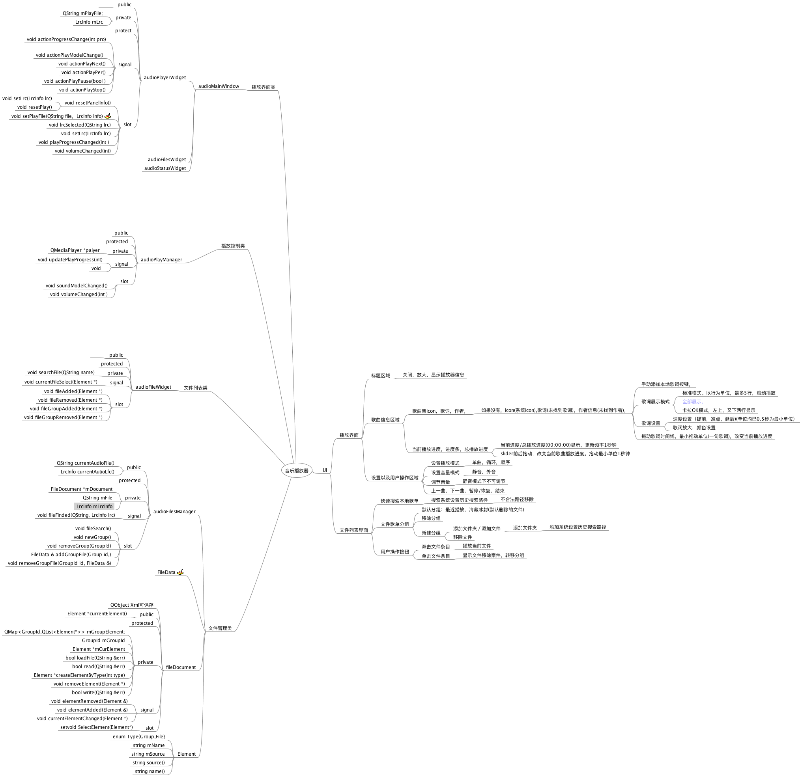
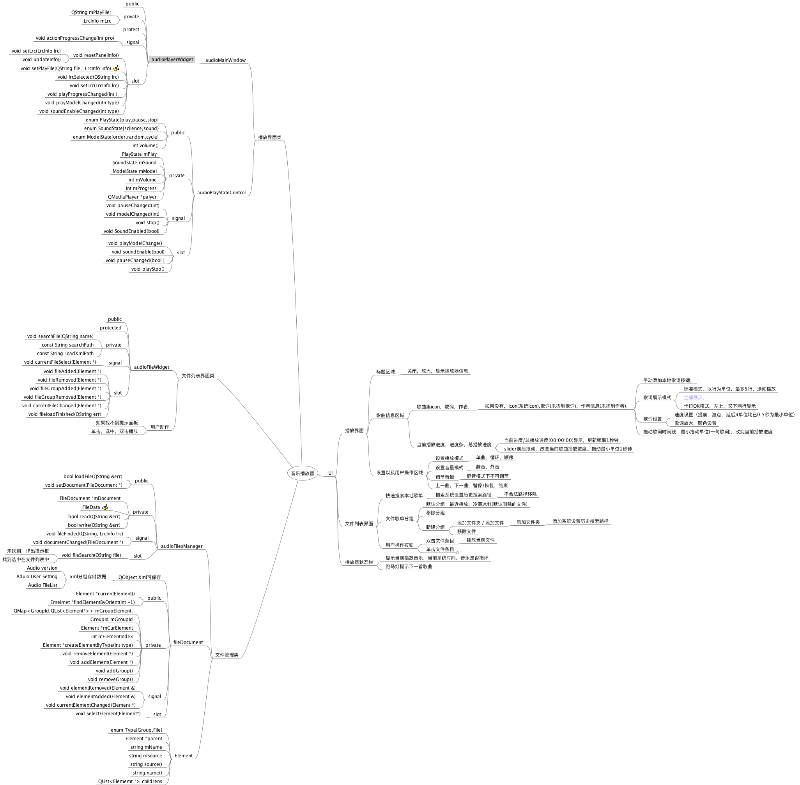
"statusBar widget added"

diff --git a/音乐播放器.mm b/音乐播放器.mm
@@ -1,4 +1,4 @@
-<map version="1.0.1">
+<map version="1.1.0">
 <!-- To view this file, download free mind mapping software FreeMind from http://freemind.sourceforge.net -->
 <node CREATED="1500028951288" ID="ID_69096844" MODIFIED="1500028960820" TEXT="&#x97f3;&#x4e50;&#x64ad;&#x653e;&#x5668;">
 <node CREATED="1500030258110" ID="ID_1756486732" MODIFIED="1500030262273" POSITION="right" TEXT="UI">
@@ -68,7 +68,8 @@
 </node>
 </node>
 <node CREATED="1502016503336" ID="ID_1374396637" MODIFIED="1502016521685" TEXT="&#x64ad;&#x653e;&#x5668;&#x72b6;&#x6001;&#x680f;">
-<node CREATED="1502016522809" ID="ID_360689341" MODIFIED="1502016591518" TEXT="&#x663e;&#x793a;&#x5f53;&#x524d;&#x64ad;&#x653e;&#x97f3;&#x4e50;&#xff0c;&#x5f53;&#x524d;&#x7cfb;&#x7edf;&#x65f6;&#x95f4;&#xff0c;&#x97f3;&#x4e50;&#x662f;&#x5426;&#x635f;&#x574f;&#xff0c;&#x8dd1;&#x9a6c;&#x706f;&#x63d0;&#x793a;&#x4e0b;&#x4e00;&#x9996;&#x6b4c;&#x66f2;"/>
+<node CREATED="1502016522809" ID="ID_360689341" MODIFIED="1502438247599" TEXT="&#x663e;&#x793a;&#x5f53;&#x524d;&#x64ad;&#x653e;&#x97f3;&#x4e50;&#xff0c;&#x5f53;&#x524d;&#x7cfb;&#x7edf;&#x65f6;&#x95f4;&#xff0c;&#x97f3;&#x4e50;&#x662f;&#x5426;&#x635f;&#x574f;"/>
+<node CREATED="1502438249100" ID="ID_1838637314" MODIFIED="1502438250389" TEXT="&#x8dd1;&#x9a6c;&#x706f;&#x63d0;&#x793a;&#x4e0b;&#x4e00;&#x9996;&#x6b4c;&#x66f2;"/>
 </node>
 </node>
 <node CREATED="1501056551206" HGAP="9" ID="ID_518259958" MODIFIED="1501236397045" POSITION="left" TEXT="&#x64ad;&#x653e;&#x754c;&#x9762;&#x7c7b;" VSHIFT="-107">
@@ -128,8 +129,6 @@
 <node CREATED="1501314597641" ID="ID_1788629860" MODIFIED="1501316174343" TEXT="void soundEnableChanged(int type)"/>
 </node>
 </node>
-<node CREATED="1501056691927" ID="ID_1629958325" MODIFIED="1501056710023" TEXT="audioFilesWidget"/>
-<node CREATED="1501056720375" ID="ID_373220747" MODIFIED="1501056729733" TEXT="audioStatusWIdget"/>
 </node>
 <node CREATED="1501314768153" ID="ID_775027130" MODIFIED="1501315203551" TEXT="audioPlayStateControl">
 <node CREATED="1501314900098" ID="ID_1281237740" MODIFIED="1501314905199" TEXT="public">
@@ -166,6 +165,8 @@
 <node CREATED="1501236429398" ID="ID_343528161" MODIFIED="1501236433006" TEXT="protected"/>
 <node CREATED="1501236438186" ID="ID_1491830705" MODIFIED="1501319723953" TEXT="private">
 <node CREATED="1501236522596" ID="ID_151168755" MODIFIED="1501236535456" TEXT="void searchFile(QString name)"/>
+<node CREATED="1502433804046" ID="ID_1007501485" MODIFIED="1502433822671" TEXT="const String searchPath"/>
+<node CREATED="1502433823001" ID="ID_1024543729" MODIFIED="1502433840067" TEXT="const String LoadXmlPath"/>
 </node>
 <node CREATED="1501236442662" ID="ID_545477994" MODIFIED="1501236447170" TEXT="signal">
 <node CREATED="1501240480797" ID="ID_102213320" MODIFIED="1501240516773" TEXT="void currentFileSelect(Element *)"/>
@@ -177,18 +178,22 @@
 <node CREATED="1501240432287" ID="ID_872307991" MODIFIED="1501240448013" TEXT="void fileGroupRemoved(Element *)"/>
 <node CREATED="1501313749549" ID="ID_460563974" MODIFIED="1501313783535" TEXT="void currentFileChanged(Element *)"/>
 <node CREATED="1502014539305" ID="ID_1662527256" MODIFIED="1502014638150" TEXT="void fileloadFinished(QString err)"/>
-<node CREATED="1502014703705" ID="ID_1258140656" MODIFIED="1502014724133" TEXT="void reloadFile()"/>
 </node>
+</node>
+<node CREATED="1502433703840" ID="ID_323659511" MODIFIED="1502433714754" TEXT="&#x7528;&#x6237;&#x52a8;&#x4f5c;">
+<node CREATED="1502016332801" ID="ID_1222496941" MODIFIED="1502016354341" TEXT="&#x5982;&#x679c;&#x627e;&#x4e0d;&#x5230;&#x63d0;&#x793a;&#x9762;&#x677f;"/>
+<node CREATED="1502016300520" ID="ID_445391940" MODIFIED="1502016320885" TEXT="&#x5355;&#x51fb;&#xff0c;&#x9009;&#x4e2d;&#xff0c;&#x53cc;&#x51fb;&#x64ad;&#x653e;"/>
 </node>
 </node>
 <node CREATED="1501056913072" HGAP="119" ID="ID_558687772" MODIFIED="1501236411821" POSITION="left" TEXT="&#x6587;&#x4ef6;&#x7ba1;&#x7406;&#x7c7b;" VSHIFT="-37">
 <node CREATED="1501234412102" ID="ID_762363575" MODIFIED="1501234421460" TEXT="audioFilesManager">
-<node CREATED="1501234423655" ID="ID_1073156878" MODIFIED="1501234430302" TEXT="public">
+<node CREATED="1501234423655" ID="ID_1073156878" MODIFIED="1502433613769" TEXT="public" VSHIFT="-12">
+<node CREATED="1501238288382" ID="ID_1369260728" MODIFIED="1501238314894" TEXT="bool loadFile(QString &amp;err)"/>
 <node CREATED="1502015765104" ID="ID_17333809" MODIFIED="1502015783973" TEXT="void setDoucment(FileDocument *)"/>
 </node>
 <node CREATED="1501234434955" ID="ID_832292491" MODIFIED="1501314400138" TEXT="private">
 <node CREATED="1501240183841" ID="ID_17214556" MODIFIED="1501240212613" TEXT="FIleDocument *mDocument"/>
-<node CREATED="1501236749351" HGAP="34" ID="ID_464902297" MODIFIED="1502015003722" TEXT="FileData" VSHIFT="-12">
+<node CREATED="1501236749351" HGAP="52" ID="ID_464902297" MODIFIED="1502437798875" TEXT="FileData" VSHIFT="-2">
 <richcontent TYPE="NOTE"><html>
   <head>
     
@@ -204,7 +209,7 @@
       int id;
     </p>
     <p>
-      string name;//&#20840;&#36335;&#24452;
+      string name;//&#x5168;&#x8def;&#x5f84;
     </p>
     <p>
       QList&lt;int&gt; childs;
@@ -213,22 +218,30 @@
       }
     </p>
   </body>
-</html>
-</richcontent>
+</html></richcontent>
 </node>
+<node CREATED="1501238334599" ID="ID_1741280991" MODIFIED="1501238352121" TEXT="bool read(QString &amp;err)"/>
+<node CREATED="1501238352453" ID="ID_598494476" MODIFIED="1501239505752" TEXT="bool write(QString &amp;err)"/>
 </node>
 <node CREATED="1501234439443" ID="ID_1318593029" MODIFIED="1501234441822" TEXT="signal">
 <node CREATED="1501235516170" ID="ID_208713146" MODIFIED="1501235558757" TEXT="void fileFinded(QString, LrcInfo lrc)"/>
 <node CREATED="1502015820992" ID="ID_977547023" MODIFIED="1502015847334" TEXT="void documentChanged(FileDocument *)"/>
 </node>
-<node CREATED="1501234442480" HGAP="43" ID="ID_1849048436" MODIFIED="1501237282761" TEXT="slot" VSHIFT="10">
-<node CREATED="1501235308267" ID="ID_1688436207" MODIFIED="1501313897215" TEXT="void fileSearch(QString file)"/>
+<node CREATED="1501234442480" HGAP="38" ID="ID_1849048436" MODIFIED="1502437530451" TEXT="slot" VSHIFT="-64">
+<node CREATED="1501235308267" ID="ID_1688436207" MODIFIED="1501313897215" TEXT="void fileSearch(QString file)">
+<node CREATED="1502438114683" ID="ID_837399890" MODIFIED="1502438128561" TEXT="&#x672a;&#x627e;&#x5230;&#xff0c;&#x5f39;&#x51fa;&#x63d0;&#x793a;&#x6846;"/>
+<node CREATED="1502438130004" ID="ID_255835973" MODIFIED="1502438141806" TEXT="&#x627e;&#x5230;&#x9009;&#x4e2d;&#x5728;&#x6587;&#x4ef6;&#x5217;&#x8868;&#x4e2d;"/>
 </node>
-<node CREATED="1502016300520" ID="ID_445391940" MODIFIED="1502016320885" TEXT="&#x5355;&#x51fb;&#xff0c;&#x9009;&#x4e2d;&#xff0c;&#x53cc;&#x51fb;&#x64ad;&#x653e;"/>
-<node CREATED="1502016332801" ID="ID_1222496941" MODIFIED="1502016354341" TEXT="&#x5982;&#x679c;&#x627e;&#x4e0d;&#x5230;&#x63d0;&#x793a;&#x9762;&#x677f;"/>
+</node>
 </node>
 <node CREATED="1501237634194" ID="ID_467587366" MODIFIED="1501237640772" TEXT="fileDocument">
-<node CREATED="1501237641890" ID="ID_298635232" MODIFIED="1501237804443" TEXT="QObject Xml&#x53ef;&#x4fdd;&#x5b58;"/>
+<node CREATED="1501237641890" ID="ID_298635232" MODIFIED="1501237804443" TEXT="QObject Xml&#x53ef;&#x4fdd;&#x5b58;">
+<node CREATED="1502438341881" ID="ID_244349678" MODIFIED="1502438352843" TEXT="xml&#x5206;&#x7ec4;&#x5b58;&#x50a8;&#x6570;&#x636e;">
+<node CREATED="1502438354504" ID="ID_915664501" MODIFIED="1502438373573" TEXT="Audio version"/>
+<node CREATED="1502438373870" ID="ID_1808778679" MODIFIED="1502438404824" TEXT="Aduio User Setting"/>
+<node CREATED="1502438408395" ID="ID_223651342" MODIFIED="1502438439295" TEXT="Audio FileList"/>
+</node>
+</node>
 <node CREATED="1501237675079" ID="ID_605402566" MODIFIED="1502015310282" TEXT="public">
 <node CREATED="1501239894896" ID="ID_164866506" MODIFIED="1501239905183" TEXT="Element *currentElement()"/>
 <node CREATED="1502015383736" ID="ID_896996932" MODIFIED="1502015425277" TEXT="Emelmet *findElementByOrient(int -1)"/>
@@ -238,9 +251,6 @@
 <node CREATED="1501239326185" ID="ID_1916447164" MODIFIED="1501239343492" TEXT="GroupId mGroupId"/>
 <node CREATED="1501239343889" ID="ID_1647326325" MODIFIED="1501239354225" TEXT="Element *mCurElement"/>
 <node CREATED="1502015294800" ID="ID_1037139857" MODIFIED="1502015302725" TEXT="int mElementIndex"/>
-<node CREATED="1501238288382" ID="ID_1369260728" MODIFIED="1501238314894" TEXT="bool loadFile(QString &amp;err)"/>
-<node CREATED="1501238334599" ID="ID_1741280991" MODIFIED="1501238352121" TEXT="bool read(QString &amp;err)"/>
-<node CREATED="1501238352453" ID="ID_598494476" MODIFIED="1501239505752" TEXT="bool write(QString &amp;err)"/>
 <node CREATED="1501238390737" ID="ID_572534320" MODIFIED="1501238489382" TEXT="Element *createElementByType(int type)"/>
 <node CREATED="1501239389748" ID="ID_766648835" MODIFIED="1501239404760" TEXT="void removeElement(Element *)"/>
 <node CREATED="1502015249152" ID="ID_1149868101" MODIFIED="1502015267077" TEXT="void addElement(Element *)"/>
@@ -256,7 +266,7 @@
 <node CREATED="1501239885299" ID="ID_1412377127" MODIFIED="1502015146302" TEXT="void SelectElement(Element*)"/>
 </node>
 </node>
-<node CREATED="1501238516984" ID="ID_1460896770" MODIFIED="1501238522558" TEXT="Element">
+<node CREATED="1501238516984" HGAP="46" ID="ID_1460896770" MODIFIED="1502433671738" TEXT="Element" VSHIFT="18">
 <node CREATED="1501238525342" ID="ID_1097937355" MODIFIED="1501238635182" TEXT="enum Type{Group,File}"/>
 <node CREATED="1502016188776" ID="ID_210591321" MODIFIED="1502016199797" TEXT="Element *parent"/>
 <node CREATED="1501238636392" ID="ID_481994630" MODIFIED="1501238933340" TEXT="string mName"/>

diff --git a/AudioPlayer/audiomainwindow.cpp b/AudioPlayer/audiomainwindow.cpp
@@ -2,15 +2,16 @@
 #include "ui_audiomainwindow.h"
 #include "audioplaywidget.h"
 #include "audiofilesdockwidget.h"
+#include "audiostatuswidget.h"
 
 AudioMainWindow::AudioMainWindow(QWidget *parent)
     : QMainWindow(parent)
     , ui(new Ui::AudioMainWindow)
     , mPlayWidget(new AudioPlayWidget)
     , mFilesWidget(new AudioFilesDockWidget)
+    , mStatusWidget(new AudioStatusWidget)
 {
     ui->setupUi(this);
-//    this->setFixedHeight(240);
     initMainWidget();
 }
 
@@ -21,8 +22,7 @@ AudioMainWindow::~AudioMainWindow()
 
 void AudioMainWindow::initMainWidget()
 {
-//    this->setContentsMargins(10, 10, 10, 10);
     this->setCentralWidget(mPlayWidget);
-//    mPlayWidget->setFixedSize(QSize(440, 240));
     this->addDockWidget(Qt::DockWidgetArea::RightDockWidgetArea, mFilesWidget);
+    this->statusBar()->addWidget(mStatusWidget, 0);
 }

diff --git a/AudioPlayer/audioplaywidget.h b/AudioPlayer/audioplaywidget.h
@@ -2,6 +2,7 @@
 #define AUDIOPLAYWIDGET_H
 
 #include <QWidget>
+#include "datadefine.h"
 
 namespace Ui {
 class AudioPlayWidget;
@@ -14,6 +15,18 @@ class AudioPlayWidget : public QWidget
 public:
     explicit AudioPlayWidget(QWidget *parent = 0);
     ~AudioPlayWidget();
+
+protected:
+    void initPanel();
+
+signals:
+    void progressChange(int progress);
+
+private slots:
+    void playFileChanged(QString fileName, LrcInfo lrc);
+    void playProgressChanged(int progress);
+    void playModelChanged(int model);
+    void soundEnablChanged(int type);
 
 private:
     Ui::AudioPlayWidget *ui;

diff --git a/AudioPlayer/audiostatuswidget.h b/AudioPlayer/audiostatuswidget.h
@@ -1,0 +1,23 @@
+//license-placeholder 2017-8-11 Tao Cheng
+#ifndef AUDIOSTATUSWIDGET_H
+#define AUDIOSTATUSWIDGET_H
+
+#include <QWidget>
+
+namespace Ui {
+class AudioStatusWidget;
+}
+
+class AudioStatusWidget : public QWidget
+{
+    Q_OBJECT
+
+public:
+    explicit AudioStatusWidget(QWidget *parent = 0);
+    ~AudioStatusWidget();
+
+private:
+    Ui::AudioStatusWidget *ui;
+};
+
+#endif // AUDIOSTATUSWIDGET_H

diff --git a/AudioPlayer/audiomainwindow.h b/AudioPlayer/audiomainwindow.h
@@ -2,8 +2,11 @@
 #define AUDIOMAINWINDOW_H
 
 #include <QMainWindow>
+
 class AudioPlayWidget;
 class AudioFilesDockWidget;
+class AudioStatusWidget;
+
 namespace Ui {
 class AudioMainWindow;
 }
@@ -20,6 +23,7 @@ private:
     Ui::AudioMainWindow *ui;
     AudioPlayWidget *mPlayWidget;
     AudioFilesDockWidget *mFilesWidget;
+    AudioStatusWidget *mStatusWidget;
     void initMainWidget();
 };
 

diff --git a/AudioPlayer/audioplaywidget.cpp b/AudioPlayer/audioplaywidget.cpp
@@ -12,3 +12,28 @@ AudioPlayWidget::~AudioPlayWidget()
 {
     delete ui;
 }
+
+void AudioPlayWidget::initPanel()
+{
+
+}
+
+void AudioPlayWidget::playFileChanged(QString fileName, LrcInfo lrc)
+{
+
+}
+
+void AudioPlayWidget::playProgressChanged(int progress)
+{
+
+}
+
+void AudioPlayWidget::playModelChanged(int model)
+{
+
+}
+
+void AudioPlayWidget::soundEnablChanged(int type)
+{
+
+}

diff --git a/AudioPlayer/audiostatuswidget.cpp b/AudioPlayer/audiostatuswidget.cpp
@@ -1,0 +1,15 @@
+//license-placeholder 2017-8-11 Tao Cheng
+#include "audiostatuswidget.h"
+#include "ui_audiostatuswidget.h"
+
+AudioStatusWidget::AudioStatusWidget(QWidget *parent) :
+    QWidget(parent),
+    ui(new Ui::AudioStatusWidget)
+{
+    ui->setupUi(this);
+}
+
+AudioStatusWidget::~AudioStatusWidget()
+{
+    delete ui;
+}

diff --git a/AudioPlayer/datadefine.h b/AudioPlayer/datadefine.h
@@ -1,0 +1,15 @@
+//license-placeholder 2017-8-11 Liu hai Long
+#ifndef DATADEFINE_H
+#define DATADEFINE_H
+
+#include <QString>
+
+struct LrcInfo
+{
+    QString name;
+    quint32 totalTime;
+    QString author;
+    QString icon;
+    QString data;//song word
+};
+#endif // DATADEFINE_H
